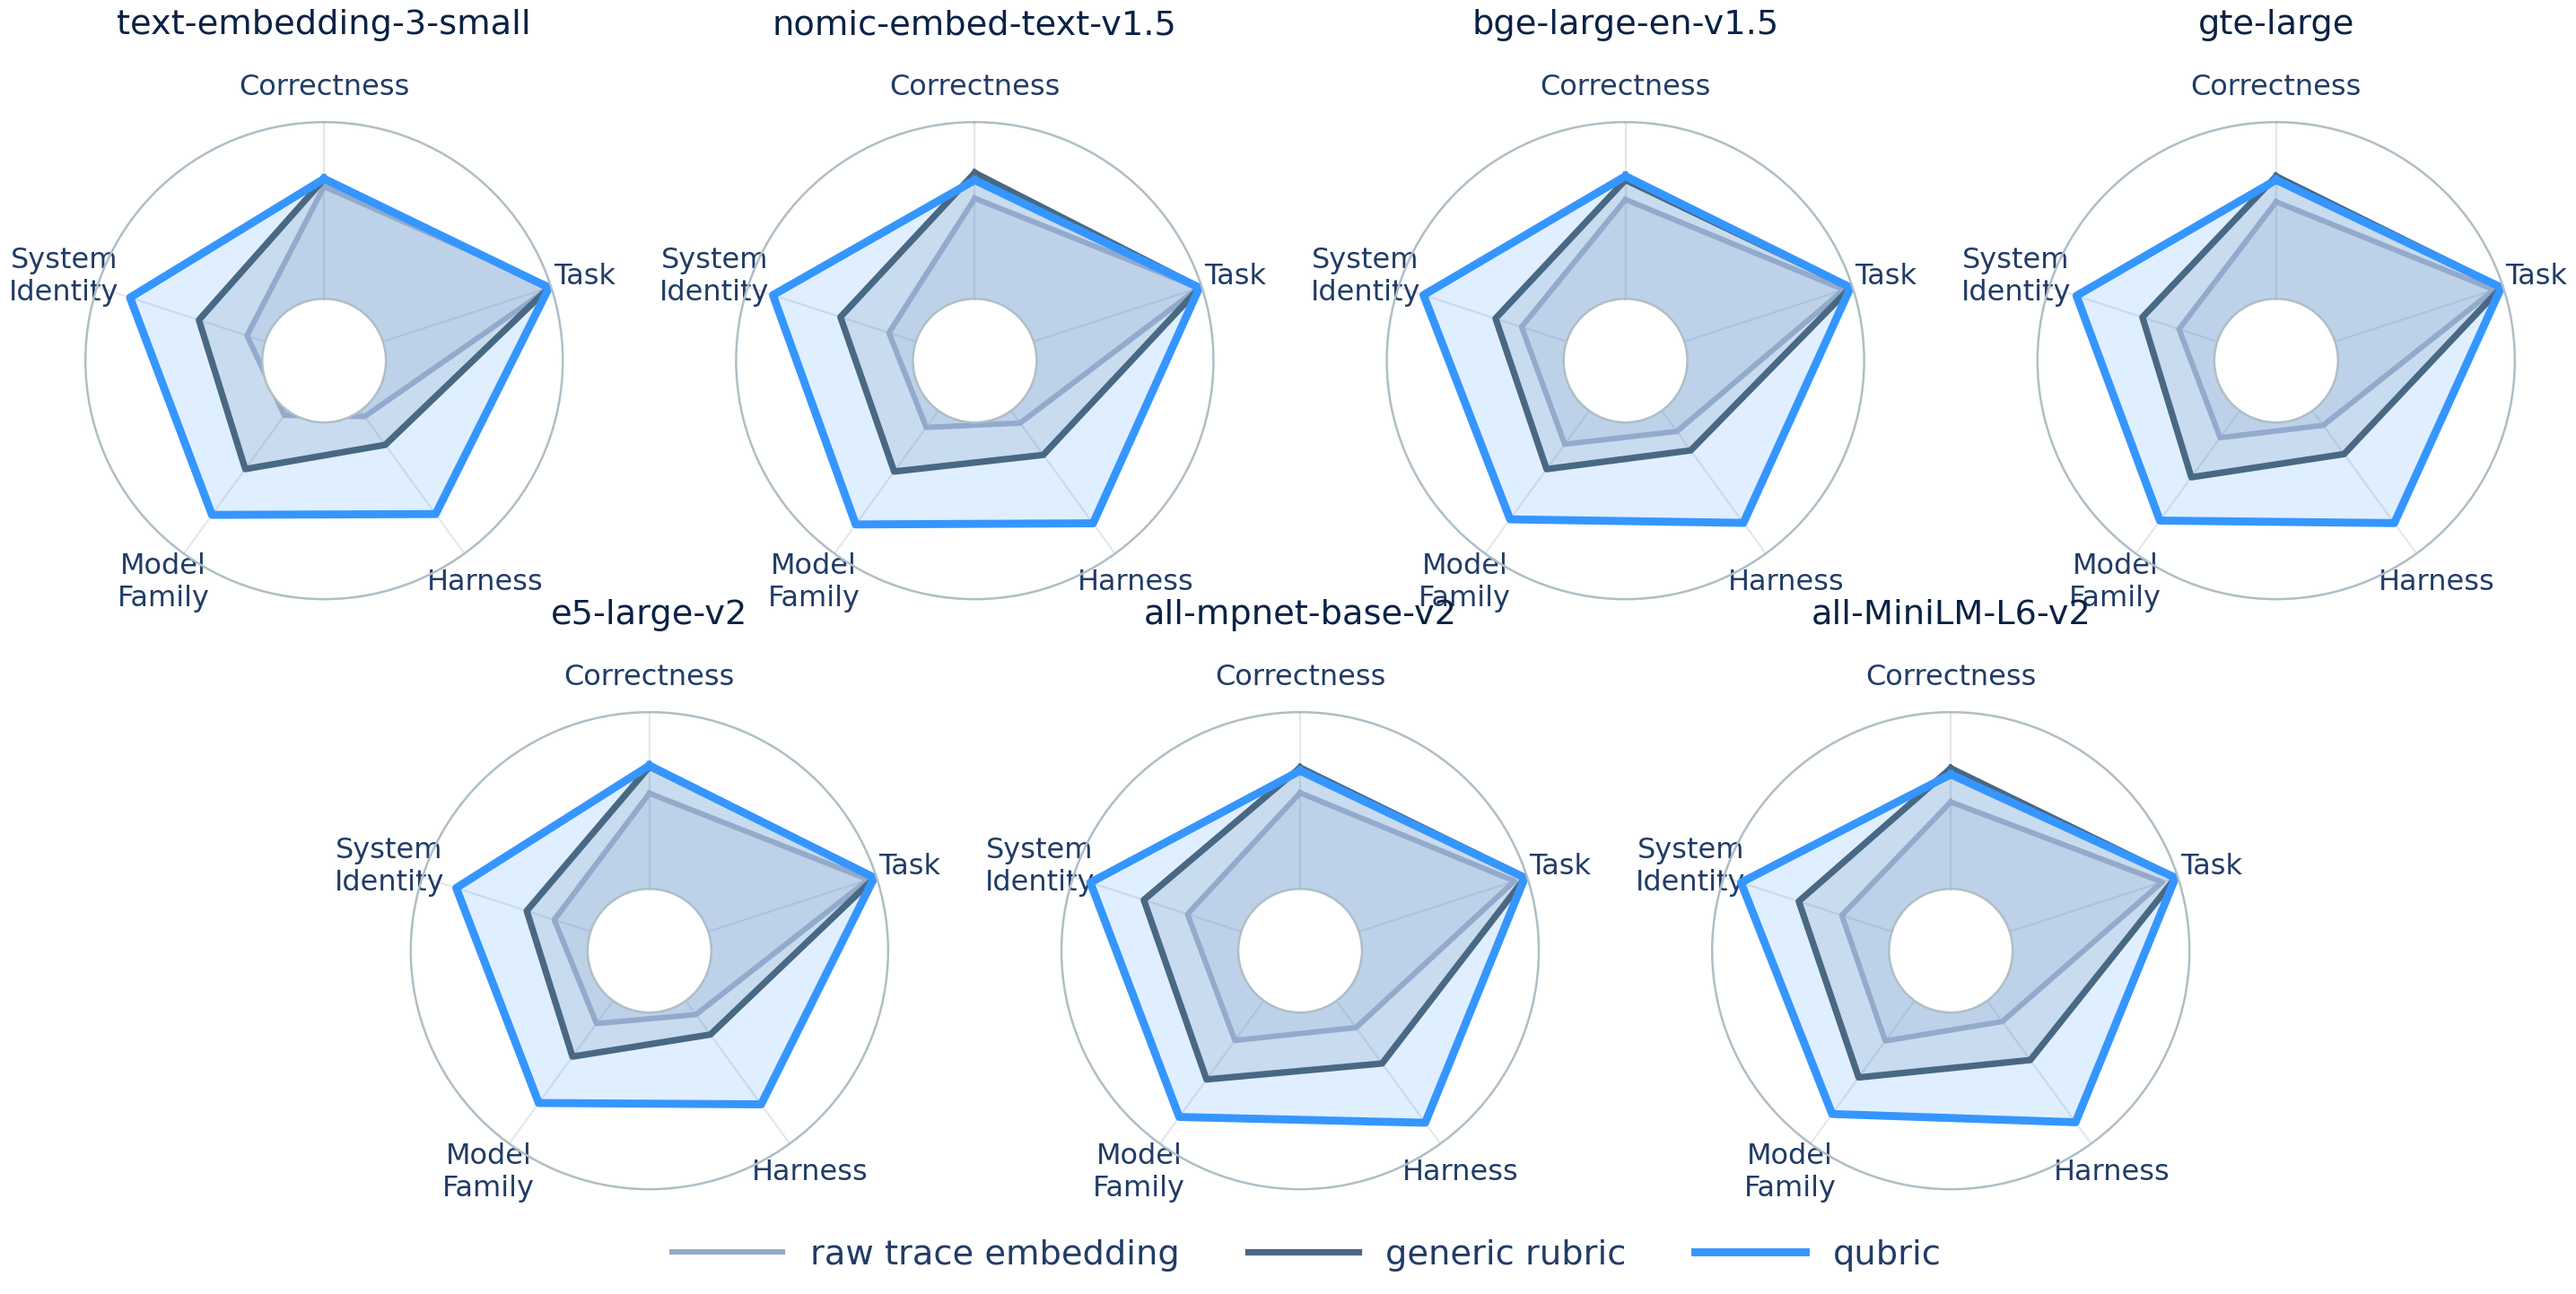
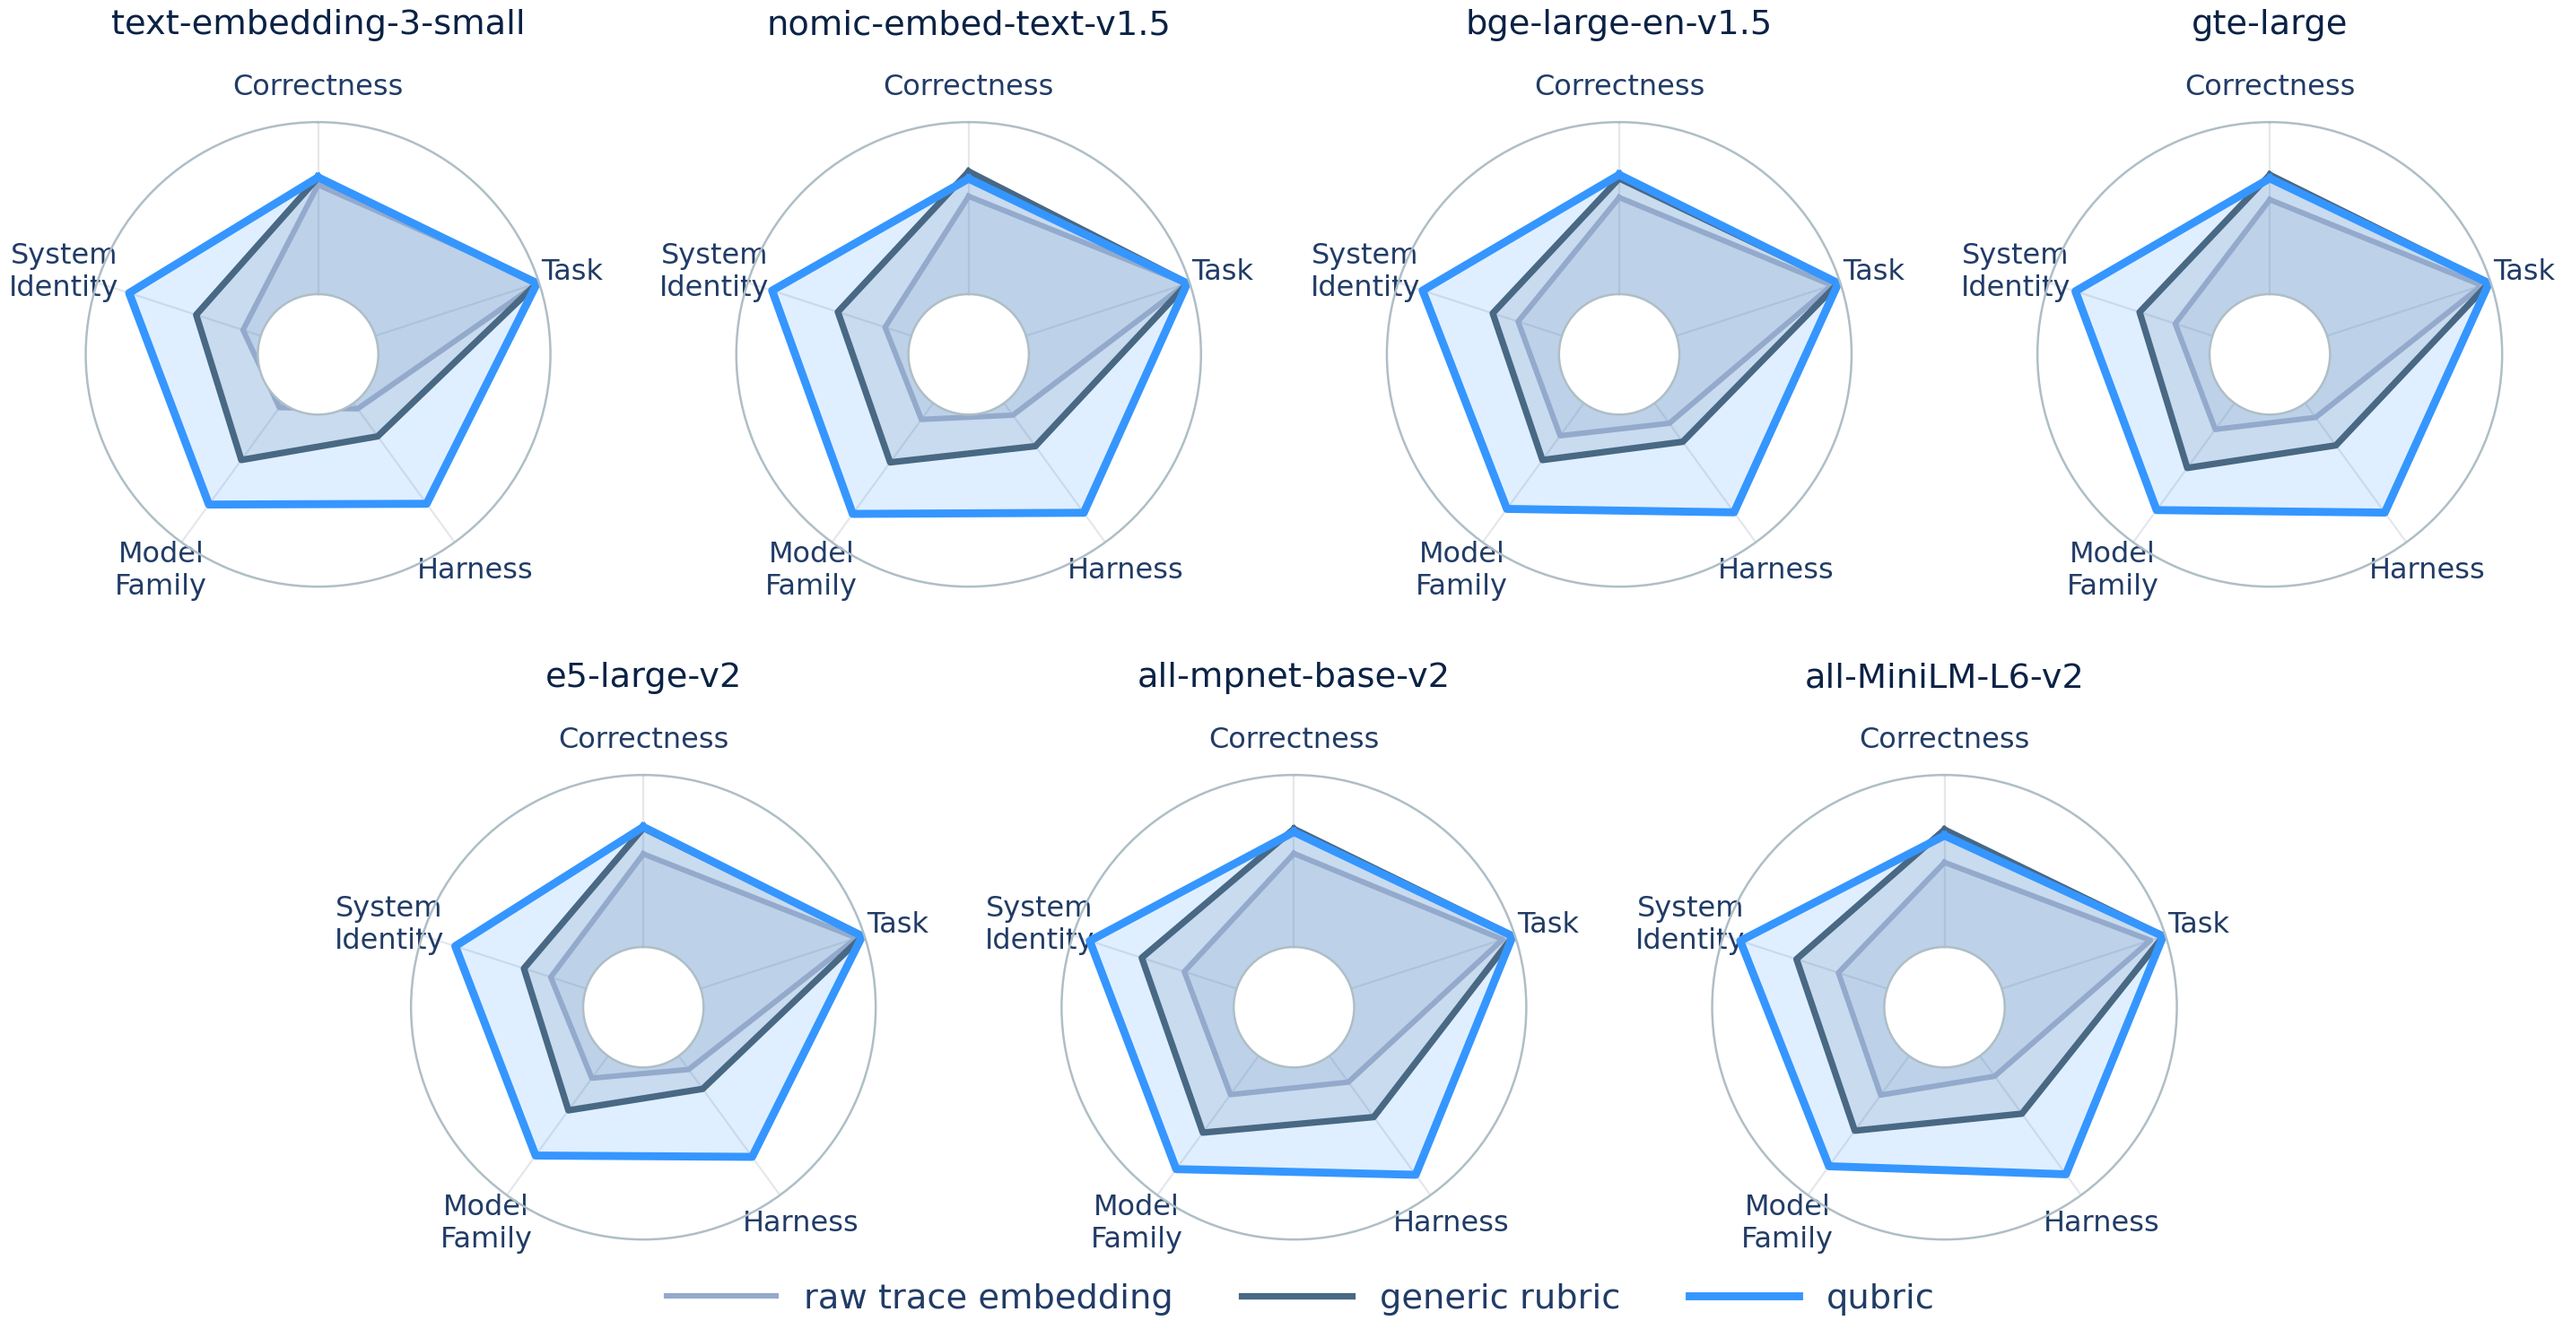
radar: clear row-2 titles from row-1 spoke labels
Claude-Session: https://claude.ai/code/session_01RGusFFXzoPTkSKgzzDLjNv

diff --git a/scripts/fig_radar_probes.py b/scripts/fig_radar_probes.py
@@ -63,7 +63,7 @@ def main():
     for idx, (short, name) in enumerate(EMB):
         r_, c_ = divmod(idx, 4)
         x0 = .035 + c_ * .245 + (.1225 if r_ == 1 else 0)
-        ax = fig.add_axes([x0, .55 - r_ * .47, .19, .38],
+        ax = fig.add_axes([x0, .56 - r_ * .52, .19, .37],
                           projection='polar')
         ax.set_rorigin(-0.35)
         ax.set_ylim(0, 1.0)
@@ -96,7 +96,7 @@ def main():
         Line2D([], [], color=GEN['color'], lw=2.6,
                label='generic rubric'),
         Line2D([], [], color=QUB['color'], lw=3.2, label='qubric')],
-        loc='lower center', bbox_to_anchor=(0.5, -0.01), ncol=3,
+        loc='lower center', bbox_to_anchor=(0.5, -0.045), ncol=3,
         frameon=False, fontsize=hv_style.SIZES['legend'],
         handlelength=3.2, columnspacing=2.0)
     fig.savefig('figures/radar_all.png', dpi=200, facecolor='white',
